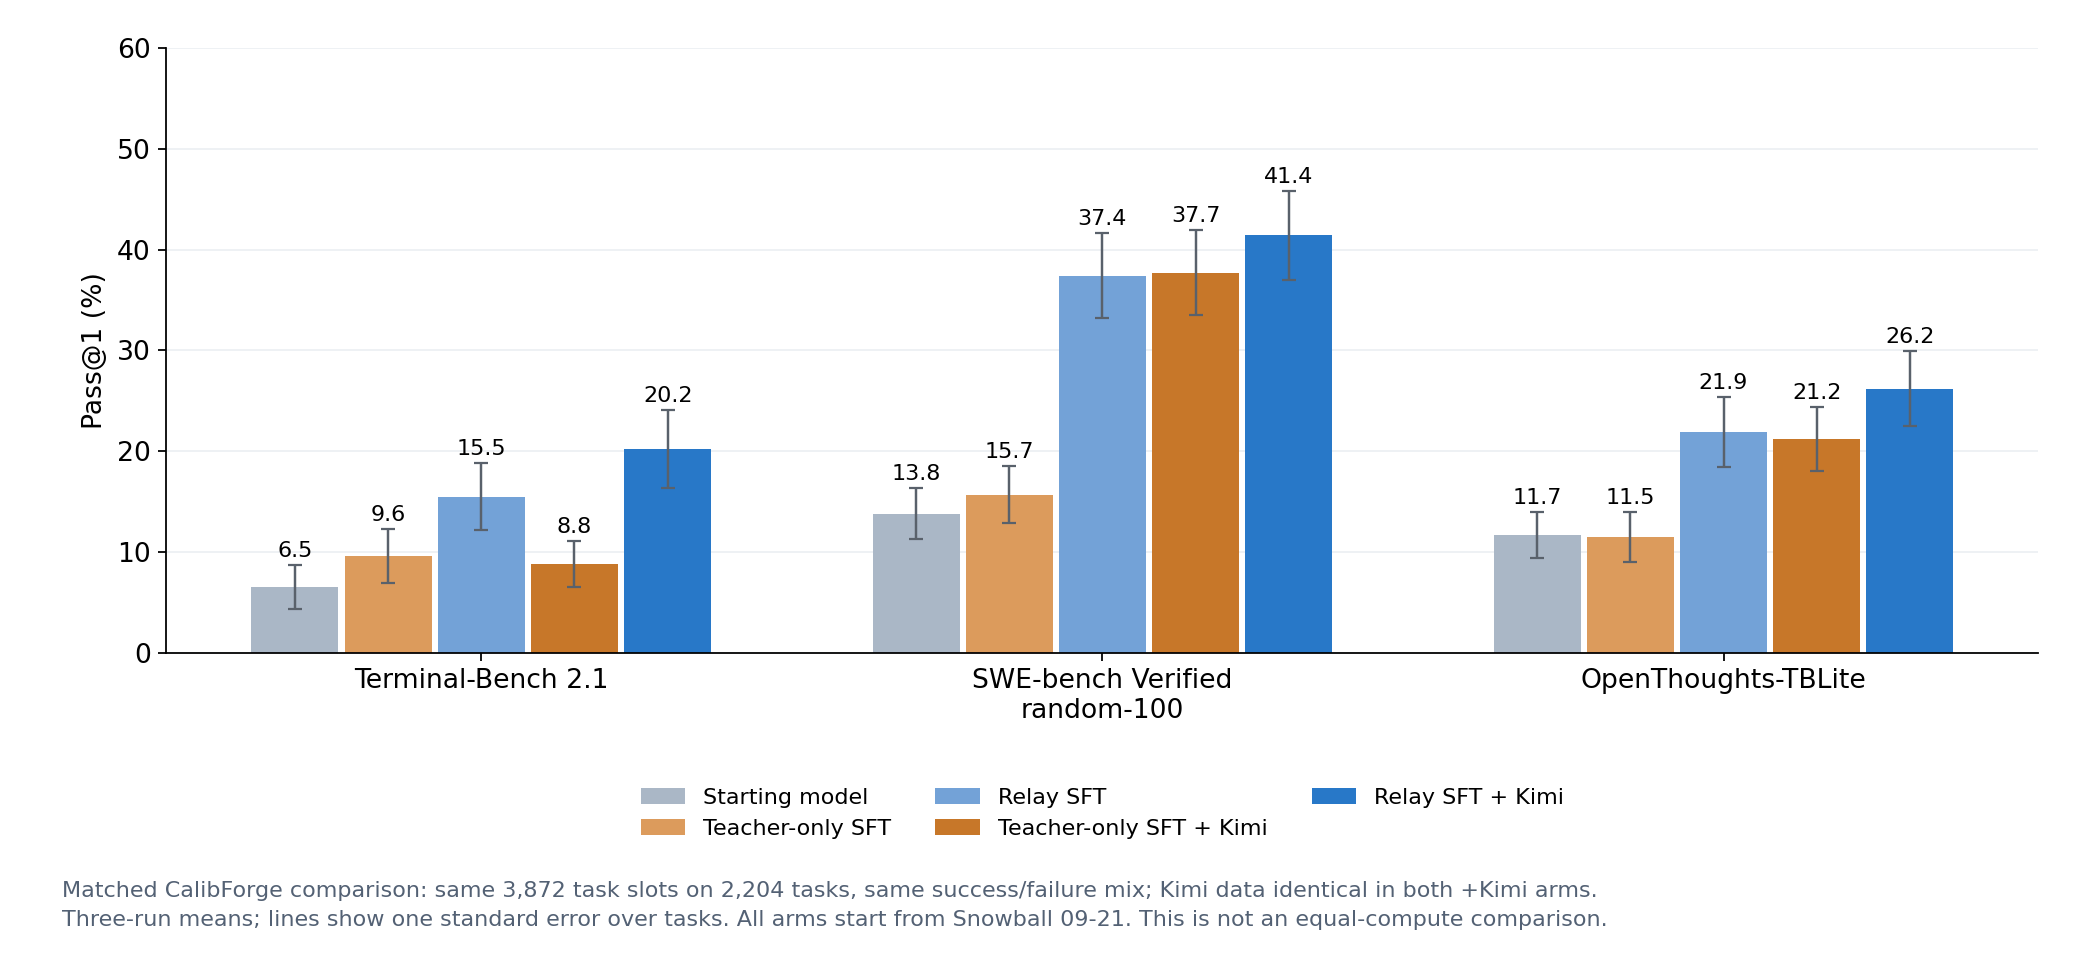
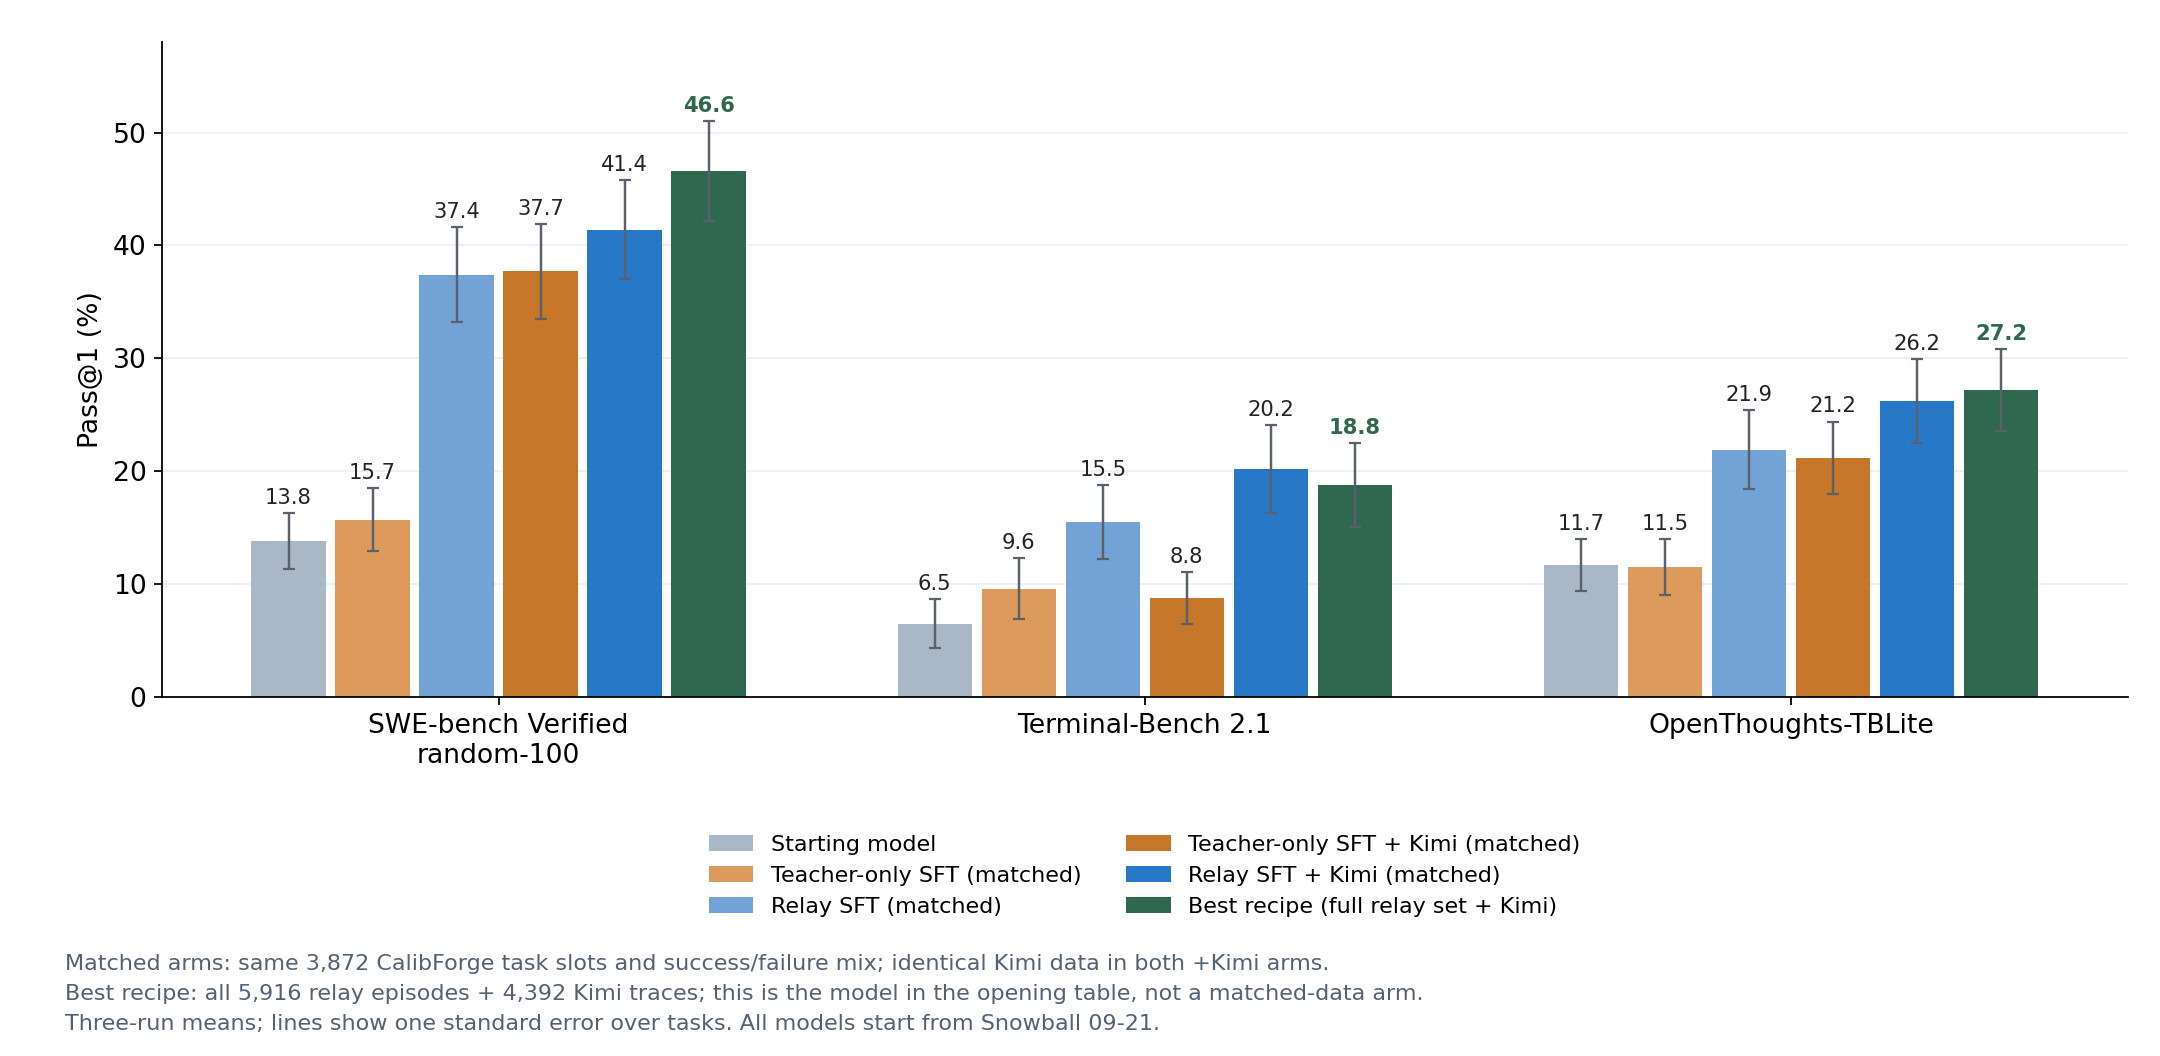
Align final results with relay comparison and cite Marin training issues

diff --git a/_posts/2026-10-21-turning-snowball-into-a-coding-agent.md b/_posts/2026-10-21-turning-snowball-into-a-coding-agent.md
@@ -22,12 +22,12 @@ The final experiments improved all three agent benchmarks I was tracking:
 
 | Model, evaluated with Terminus-2 | SWE-bench Verified random-100 | Terminal-Bench 2.1 | OpenThoughts-TBLite |
 |---|---:|---:|---:|
-| [Snowball 09-21](https://huggingface.co/open-athena/Grug-67B-A2B-Datakit-SFT-262K-2026.09.21), starting checkpoint | 13.8% | 6.5% | 11.7% |
+| [Snowball 09-21](https://github.com/marin-community/marin/issues/8089#issuecomment-5809285235), starting checkpoint | 13.8% | 6.5% | 11.7% |
 | Best recipe (Relay SFT + Kimi demonstrations) | **46.6%** | **18.8%** | **27.2%** |
 
 </div>
 
-*Pass@1, averaged over three evaluation runs. The recipe fine-tunes [Grug Datakit 09-21](https://huggingface.co/open-athena/Grug-67B-A2B-Datakit-SFT-262K-2026.09.21) on Relay SFT and Kimi coding demonstrations. These results are from an experimental checkpoint; the final Snowball launch checkpoint is not yet specified.*
+*Pass@1, averaged over three evaluation runs. The recipe fine-tunes [Grug Datakit 09-21](https://github.com/marin-community/marin/issues/8089#issuecomment-5809285235) on Relay SFT and Kimi coding demonstrations. These results are from an experimental checkpoint; the final Snowball launch checkpoint is not yet specified.*
 
 That result took several changes of approach. Snowball itself also changed during the work, so this is an account of building the expert across successive starting checkpoints.
 
@@ -46,7 +46,7 @@ That result took several changes of approach. Snowball itself also changed durin
 
 ### The Pre-RL Probe
 
-I started with [Snowball's Stage-3 Nemotron-Terminal SFT checkpoint](https://huggingface.co/laion/snowball-67b-a2b-sft-s3-nemotron-terminal-step1888). Before training, I sampled R2E-Gym tasks eight times each and used coding agents to inspect the traces. Only 36% of fully sampled tasks had both successes and failures—the useful band for binary-reward GRPO.
+I started with [Snowball's Stage-3 Nemotron-Terminal SFT checkpoint](https://github.com/marin-community/marin/issues/8225). Before training, I sampled R2E-Gym tasks eight times each and used coding agents to inspect the traces. Only 36% of fully sampled tasks had both successes and failures—the useful band for binary-reward GRPO.
 
 <figure class="research-figure">
 <a href="{{ '/assets/img/snowball/pre-rl-probe.png' | relative_url }}"><img src="{{ '/assets/img/snowball/pre-rl-probe.png' | relative_url }}" alt="The pre-RL probe: 36% of tasks were sometimes solvable; successful attempts more often edited the repository and ran a test." width="2380" height="901" loading="lazy"></a>
@@ -216,7 +216,7 @@ Full reports: [SFT versus RL versus SFT→RL](https://github.com/marin-community
 
 ## Relay SFT
 
-The next experiments started from Marin's newer [Grug Datakit 09-21](https://huggingface.co/open-athena/Grug-67B-A2B-Datakit-SFT-262K-2026.09.21) checkpoint. Kimi demonstrations alone now reached 41.6% on SWE-bench, against 13.8% for that starting model under the three-run evaluation recipe. The earlier failure did not make the dataset universally unhelpful: the starting checkpoint and training recipe mattered.
+The next experiments started from Marin's newer [Grug Datakit 09-21](https://github.com/marin-community/marin/issues/8089#issuecomment-5809285235) checkpoint. Kimi demonstrations alone now reached 41.6% on SWE-bench, against 13.8% for that starting model under the three-run evaluation recipe. The earlier failure did not make the dataset universally unhelpful: the starting checkpoint and training recipe mattered.
 
 ### Bringing in the Teacher
 
@@ -237,9 +237,11 @@ Full reports: [Initial relay design](https://gist.github.com/lukedhlee/d8fc1454e
 
 The first small held-out CalibForge comparison did not establish a Relay SFT advantage. Later agent-benchmark experiments did. On matched CalibForge tasks, trace counts, and pass/fail outcomes, Relay SFT beat teacher-only SFT on all three benchmarks. The advantage repeated on a separate task pool, TMax.
 
+The best recipe then used the full set of 5,916 relay episodes plus 4,392 Kimi traces. It reached **46.6% on SWE-bench, 18.8% on Terminal-Bench 2.1, and 27.2% on OpenThoughts-TBLite**—the same checkpoint shown in the opening table. The smaller matched-data run is a separate comparison, labeled below.
+
 <figure class="research-figure">
-<a href="{{ '/assets/img/snowball/relay-matched-dots.png' | relative_url }}"><img src="{{ '/assets/img/snowball/relay-matched-dots.png' | relative_url }}" alt="Relay SFT and teacher-only demonstrations on matched CalibForge tasks, with and without the same Kimi coding data." width="2080" height="960" loading="lazy"></a>
-<figcaption>Relay SFT helped where teacher-only traces taught much less. Kimi coding traces supplied additional software-repair gains; Relay SFT retained a substantial Terminal-Bench advantage with Kimi in both arms. Three-run means, with standard errors over tasks. Matching data did not make this an equal-compute comparison.</figcaption>
+<a href="{{ '/assets/img/snowball/relay-matched-dots.png' | relative_url }}"><img src="{{ '/assets/img/snowball/relay-matched-dots.png' | relative_url }}" alt="Matched teacher-only and Relay SFT comparisons alongside the best full-data recipe from the opening table." width="2160" height="1056" loading="lazy"></a>
+<figcaption>The green bars show the best recipe from the opening table. Blue and orange bars show the smaller matched-data comparisons; the full-data recipe uses more relay episodes. Three-run means, with standard errors over tasks.</figcaption>
 </figure>
 
 Exposure bias motivated the recipe, but these experiments do not isolate it as the mechanism or show that the triggers beat random switching. The broader idea is related to [teacher continuations from student contexts](https://arxiv.org/abs/2607.04574v2) and [Relay-OPD](https://arxiv.org/abs/2607.26057).
